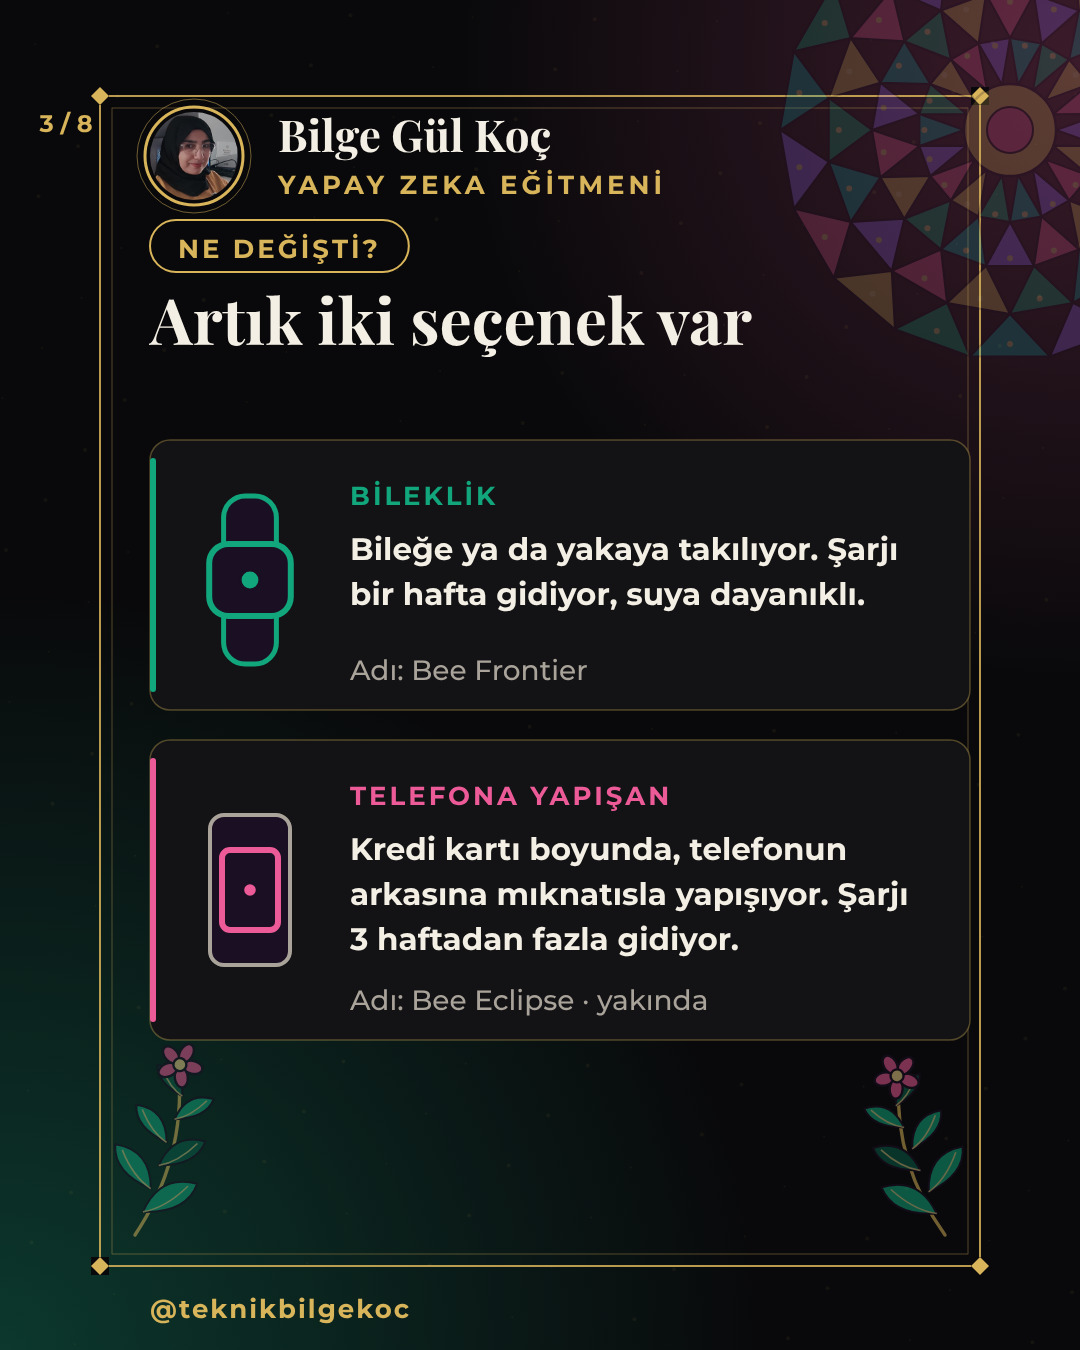
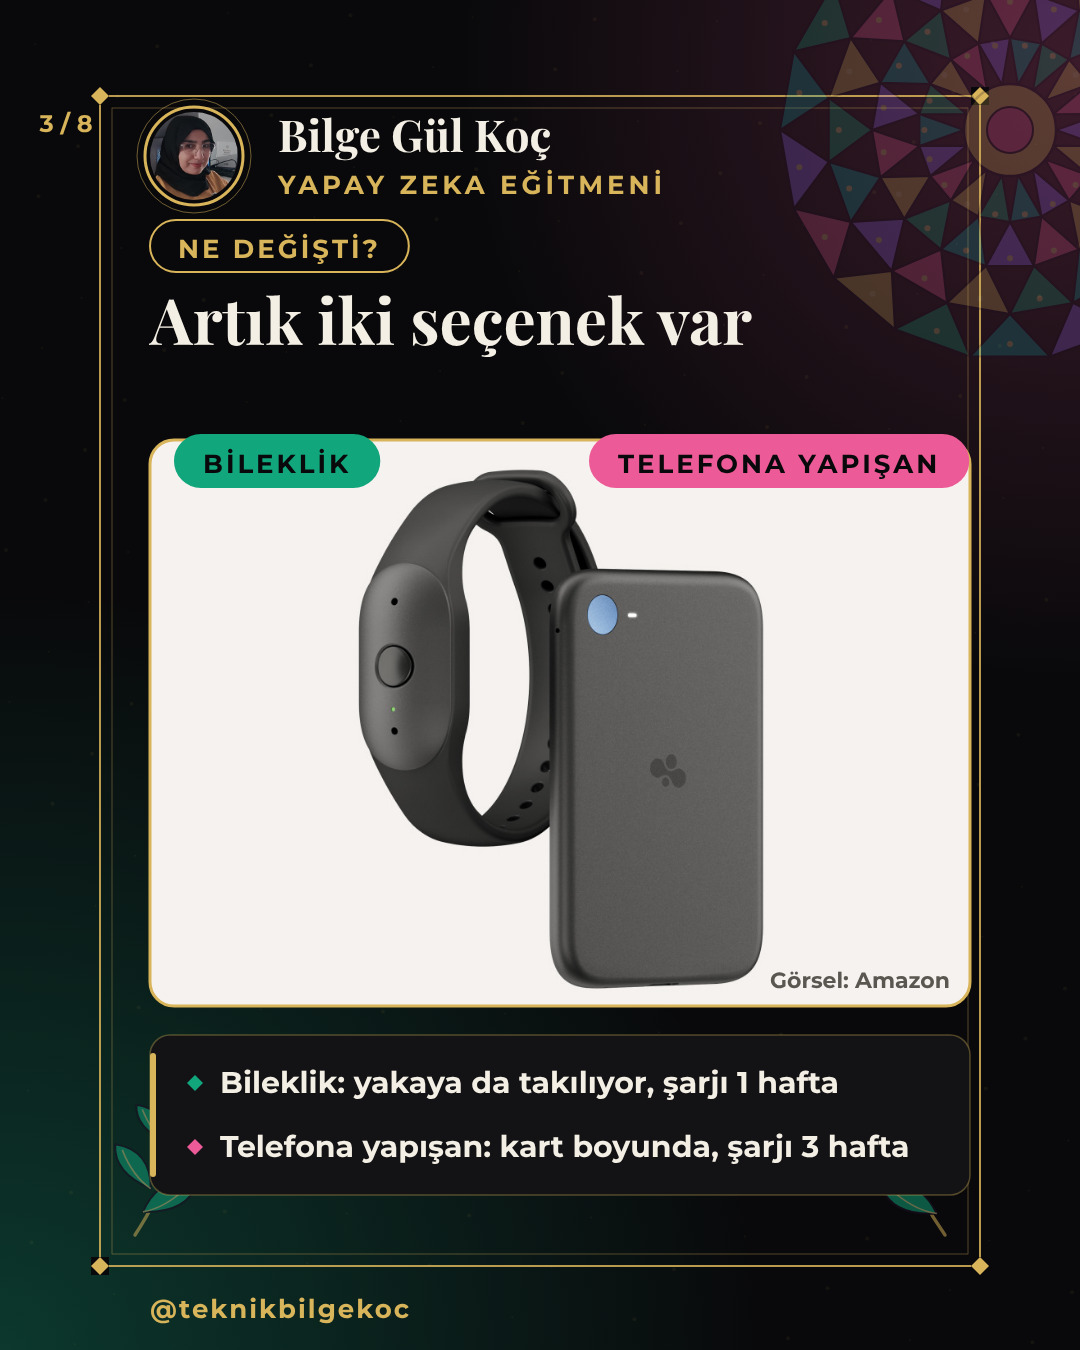
Gerçek ürün görseli kuralı ve urunGorsel(); Bee denemesinde 3. slayt resmi Amazon görseliyle
Claude-Session: https://claude.ai/code/session_01XC4Pp79YRtqX5bGTif3hZa

diff --git a/2026-10-16-deneme/s3.js b/2026-10-16-deneme/s3.js
@@ -17,16 +17,14 @@ const telKart = (x, y, col, s = 1) => { el('rect', { x: x - 40 * s, y: y - 75 * 
 async function build() {
   await fontsReady(); paper('pink'); footer('3 / 8'); suslemeler();
   baslik('NE DEĞİŞTİ?', 'Artık iki seçenek var', C.gold);
-  card(150, 380, 820, 270, C.emerald);
-  bileklik(250, 520, C.emerald, 1.2);
-  text('BİLEKLİK', 350, 445, { size: 26, weight: 700, color: C.emerald, ls: 3 });
-  para('Bileğe ya da yakaya takılıyor. Şarjı bir hafta gidiyor, suya dayanıklı.', 350, 500, { size: 31, weight: 700, color: C.ivory, width: 580 });
-  text('Adı: Bee Frontier', 350, 620, { size: 28, color: C.muted });
-  card(150, 680, 820, 300, C.pink);
-  telKart(250, 830, C.pink, 1);
-  text('TELEFONA YAPIŞAN', 350, 745, { size: 26, weight: 700, color: C.pink, ls: 3 });
-  para('Kredi kartı boyunda, telefonun arkasına mıknatısla yapışıyor. Şarjı 3 haftadan fazla gidiyor.', 350, 800, { size: 31, weight: 700, color: C.ivory, width: 580 });
-  text('Adı: Bee Eclipse · yakında', 350, 950, { size: 28, color: C.muted });
+  urunGorsel('urun.jpg', 150, 380, 820, 566, 'Görsel: Amazon', { kirp: 'xMidYMid meet' });
+  chip('BİLEKLİK', 175, 405, C.emerald, true);
+  chip('TELEFONA YAPIŞAN', 590, 405, C.pink, true);
+  card(150, 975, 820, 160, C.gold);
+  bullet(195, 1023, C.emerald);
+  text('Bileklik: yakaya da takılıyor, şarjı 1 hafta', 220, 1033, { size: 30, weight: 700, color: C.ivory });
+  bullet(195, 1087, C.pink);
+  text('Telefona yapışan: kart boyunda, şarjı 3 hafta', 220, 1097, { size: 30, weight: 700, color: C.ivory });
   kaydir();
   done();
 }

diff --git a/motor/lib-koyu.js b/motor/lib-koyu.js
@@ -99,6 +99,17 @@ function profil(x, y, d = 104) {
   serif('Bilge Gül Koç', tx, cy - 4, { size: 44, weight: 700, color: C.ivory });
   text('YAPAY ZEKA EĞİTMENİ', tx, cy + 38, { size: TS.label, weight: 700, color: C.gold, ls: 4 });
 }
+// Gerçek ürün görseli (Bilge, 16 Ekim 2026): yalnızca şirketin resmi basın sayfasından/kitinden; motor/ klasörüne kopyalanır.
+// Yuvarlatılmış çerçeve + ince altın kenar + sağ altta kaynak yazısı (ör. 'Görsel: Amazon'). Kapakta KULLANILMAZ.
+function urunGorsel(href, x, y, w, h, kaynak, o = {}) {
+  const id = 'ug' + sd(), rx = o.rx || 24;
+  const defs = svg.querySelector('defs') || el('defs');
+  const cp = el('clipPath', { id }, defs); el('rect', { x, y, width: w, height: h, rx }, cp);
+  el('rect', { x, y, width: w, height: h, rx, fill: o.zemin || '#F4F1EC' });
+  el('image', { href, x, y, width: w, height: h, 'clip-path': `url(#${id})`, preserveAspectRatio: o.kirp || 'xMidYMid slice' });
+  el('rect', { x, y, width: w, height: h, rx, fill: 'none', stroke: C.gold, 'stroke-width': 3 });
+  if (kaynak) text(kaynak, x + w - 20, y + h - 18, { size: 22, weight: 600, color: '#5A5650', anchor: 'end' }).dataset.free = 1;
+}
 // Kart: koyu zemin, ince altın kenar, solda vurgu rengi şeridi
 function card(x, y, w, h, accent = C.gold) {
   el('rect', { x, y, width: w, height: h, rx: 20, fill: C.card, stroke: C.gold, 'stroke-opacity': 0.35, 'stroke-width': 1.5 });

diff --git a/rutin-talimati.md b/rutin-talimati.md
@@ -25,6 +25,7 @@ GÖREV ADIMLARI
    - Playwright bulunamazsa `npm install playwright`; Chromium yoksa `npx playwright install chromium`.
    - Marka stili: siyah zemin, gold, zümrüt yeşili, vurgu pembe veya mor; başlıklar Playfair Display, gövde Montserrat (ayrıntı README'de). Krem defter teması KULLANMA. Animasyon YOK.
    - DİL VE YERELLEŞTİRME (Bilge, 15 Ekim 2026; tüm metinler için EN ÖNCELİKLİ kural): Takipçiler haberleri karışık ve anlaşılmaz buluyor. `motor/dil-rehberi.md` dosyasını oku ve uygula: İngilizce duyuruyu çevirme, Türkçe düşünerek yeniden anlat; yabancı şirket/ürünü ilk geçtiği yerde tanıt (ör. "Elon Musk'ın yapay zeka şirketi xAI"); "ajan" kelimesini HİÇBİR YERDE kullanma (Bilge açıkça istemiyor; yerine "yapay zeka asistanı"); yasaklı kelime listesindeki diğer jargonu (model, insansız, API, kredi tanımlamak vb.) da kullanma; çekinceyi bir kez söyle. SÜRÜM HABERİ (Bilge, 15 Ekim 2026): ürün daha önce de varsa "yeni çıktı" deme; "zaten vardı, yeni sürümde şu değişti" diye anlat ve eski/yeni farkını somut ver (rehber 4e). Haberi seçerken bunu birincil kaynakta kontrol et. Rakamı kapak başlığı yapma, durumu günlük sözle anlat ("10 aramadan 7'sini çözüyor" değil "telefonlara artık yapay zeka bakıyor"); çevirmen fiili yerine konuşma fiili kullan (rehber 4b). Görseller üretilmeden önce rehberin 8. bölümündeki kontrolü yap ve 9. bölümdeki BAĞIMSIZ OKUR KONTROLÜNÜ alt ajanla mutlaka çalıştır; işaretlenen satırları düzeltmeden görsel üretme.
+   - GERÇEK ÜRÜN GÖRSELİ (Bilge onayı, 16 Ekim 2026): Haber somut bir ürünle ilgiliyse, okur ürünü gözünde canlandırabilsin diye ara slaytlardan birine (tercihen "NE DEĞİŞTİ?") şirketin RESMİ basın/duyuru sayfasındaki ürün görseli konur, köşesinde "Görsel: <Şirket>" yazar. Haber sitesi, sosyal medya, insan yüzlü görsel ve kapakta kullanım YASAK. Ayrıntı `motor/README.md` "GERÇEK ÜRÜN GÖRSELİ".
    - KAPAK SADELİĞİ (Bilge, 15 Ekim 2026): Kapakta zemin ve ana figür aynı anda mozaik OLAMAZ. Ya figür mozaik, zemin sakin (düz koyu renk ya da hafif ışıma), ya zemin desenli, figür düz ve net konturlu. Kapak tek bakışta "ne görüyorum?" testini geçmeli; ayrıntı `motor/README.md` "KAPAK SADELİĞİ".
    - KAVRAM KAPAĞI VE KURGU (Bilge, 14 Ekim 2026; kapak görseli ve slayt sırası için aşağıdaki eski maddelerin yerine geçer): Kapak görseli artık `sahneTek()`/karikatür yüz DEĞİL; `motor/sanat-koyu.js` ile haberin fikrini anlatan, Fahrelnissa Zeid esinli özgün METAFOR görseli çizilir. `motor/README.md` "KAVRAM KAPAĞI" bölümündeki metafor protokolünü uygula, `kapak-gecmisi.md`'ye bak ve yayından sonra yeni satır ekle. Slayt sırası `motor/karusel-stratejisi.md` iskeletine göre kurulur (kapak, ikinci kapak, önce/sonra, nasıl çalışıyor, senin işinde, dikkat, bugün yap, "bunu kime göndermelisin?"); en çok 10 slayt, tümü 1080×1350. 2. slayt tek başına gösterildiğinde de anlaşılır olmalı.
    - YENİ FORMAT (Bilge onayı, 13 Ekim 2026; aşağıdaki eski 2 sayfa kurallarının yerine geçer): Karusel 6-8 SLAYT (sayı serbest). Kapak aynı kalır (resim üstte, başlık altta) ama başlık `motor/kanca-formatlari.md` içindeki formatlardan biriyle (tercihen iki format birleşimi) yazılır ve haberin ÖZNESİNİ (şirket/ürün) ile okuyana değişeni birlikte söyler; genel soru tek başına yetmez. Değer slaytların İÇİNDE verilir; slayt 2-N görsel ağırlıklı, her slayt tek fikir, en çok ~25 kelime, ikon/akış/önce-sonra/şema ile anlatım; yazı yoğun kart yığını YOK. Her slaytın üstünde profil rozeti (`profil(150, 112, 88)`: fotoğraf + "Bilge Gül Koç / YAPAY ZEKA EĞİTMENİ"), sağ üstte soluk `kaleydoskop`, alt köşelerde `dal()` çiçekli yaprak dalları (Fahrelnissa Zeid esinli, kopya değil). Son slayt tek eylem: kaydet/gönder. Örnek: `2026-10-13-deneme/s1.js … s6.js` (kopyala). Sayfa numarası '1 / N'. JPEG adları: 01.jpg … 0N.jpg; yayın bağlantıları sırayla.

diff --git a/motor/README.md b/motor/README.md
@@ -6,6 +6,7 @@ Sorun: her gün aynı karikatür yüz (`sahneTek` + `kadin()`) çizildi; çeşit
 - Zeid ilkeleri (eser kopyalanmaz): kaleydoskopik, koyu hatlarla bölünmüş mücevher yüzeyler; geç dönem portrelerindeki iri badem gözler ve uzun yüz (Bizans ikonası/Fayum duruşu); büyük jest + minik ayrıntı (ör. dev gözün gözbebeğinde küçük robot).
 - METAFOR PROTOKOLÜ (her gün): (1) Haberin özünü tek cümleyle yaz. (2) Bu öz için en az 5 görsel metafor yaz (ör. güvenlik → izleyen dev göz, anahtar deliğinden bakan robot, mozaik kalkan; hafıza → gözleri kapalı hatırlayan yüz, kum saati, zarf taşıyan kuş). (3) "Başlığı kapatınca görsel konuyu anlatıyor mu?" testini geçen, en şaşırtıcı ve en somut olanı seç. (4) `kapak-gecmisi.md` son 7 satırla kıyasla: ana figür, düzen, çerçeve, palet ÜÇÜNDEN fazlası aynı olamaz; ana figür (göz/yüz/el/nesne/hayvan) art arda iki gün aynı olamaz. (5) Gerekirse yeni nesneyi s1.js içinde SVG yoluyla çiz ve `mozaik()` ile doldur (yeni metafor serbest; araç listesi sınır değildir).
 - KAPAK SADELİĞİ (Bilge, 15 Ekim 2026; 15 Ekim Grok kapağı karışık bulundu: mozaik zemin + mozaik telefon): (1) Zemin ve figür aynı anda mozaik olamaz. Figür `mozaik()` ile dolduruluyorsa `sanatSahne` zemini sakin olur (düz koyu ya da tek ışıma; `kaleydoskop()` halkası çizme ya da opaklığı en çok 0.08). (2) Figür zeminden belirgin ayrılır: kalın koyu kontur + figürün arkasında koyu yuvarlak alan. (3) Figür üzerinde ikinci bir sembol (madalyon, robot yüzü) yok; tek figür, tek fikir. (4) Ses dalgası, ışın gibi süsler en çok 2 renk. (5) TEST: kapağı küçültüp telefon ekranında görüntüle (ör. 270 px genişlik); figür ne olduğu hemen seçilmiyorsa sadeleştir.
+- GERÇEK ÜRÜN GÖRSELİ (Bilge onayı, 16 Ekim 2026): Haber somut bir ürünle (cihaz, uygulama ekranı) ilgiliyse "NE DEĞİŞTİ?" ya da "NASIL ÇALIŞIYOR?" slaytına ürünün gerçek görseli konur; okur ürünü gözünde canlandırabilmeli. KURALLAR: (1) Yalnızca şirketin RESMİ duyuru/basın sayfasından ya da basın kitinden (ör. aboutamazon.com, anthropic.com/news, openai.com, blog.google). Haber sitesi (TechCrunch, Getty vb.), sosyal medya, Google Görseller YASAK. (2) İnsan yüzü içeren görsel kullanılmaz; yalnızca ürün ya da ekran. (3) Kapakta KULLANILMAZ; kapak her zaman özgün çizimdir. Karusel başına en çok 2 slaytta. (4) `lib-koyu.js` `urunGorsel(href, x, y, w, h, 'Görsel: <Şirket>', { kirp: 'xMidYMid meet' })` ile, açık zeminli çerçevede; kaynak yazısı ZORUNLU. Görseli `convert` ile ürüne yakın kırp, motor/ klasörüne `urun.jpg` olarak koy, günün klasörüne de kopyala. (5) Görselin indirildiği adresi rapor.md'ye yaz. (6) Uygun resmi görsel yoksa ürünü resmi fotoğrafa bakarak kendi stilimizle çiz; asla başka kaynaktan alma. Örnek: `../2026-10-16-deneme/s3.js`.
 - Kompozisyon: tek ana figür, çerçevenin üst %60'ını doldurur (y≈150–820), altta perde + etiket + 3 satır başlık (mevcut kural). Rozetin arkasına `rozetZemin()` koy. İnsan figürü kullanılırsa kadın öncelikli ve çeşitli (başörtülü/saçlı/yaşlı/genç, farklı ten tonu `ten`), ama her gün insan zorunlu DEĞİL.
 - Örnekler: `../2026-10-14-kapak-deneme/` (k1 göz: güvenlik, k2 yüz: hafıza, k3 el + telefon: sesli asistan). Kopyala, değiştirme.
 - Karusel kurgusu: `karusel-stratejisi.md` (8 slaytlık haber iskeleti, Instagram kuralları ve kaynaklar).

diff --git a/motor/karusel-stratejisi.md b/motor/karusel-stratejisi.md
@@ -19,6 +19,7 @@ Kural: aşağıda "RESMİ" diye işaretli olanlar Instagram/Meta kaynaklıdır; 
 
 1. **KAPAK, durdurucu.** Konuyla güçlü bağlı, özgün kavram görseli (bkz. README "KAVRAM KAPAĞI") + özne (şirket/ürün) + okuyana değişen şey. 2 saniyede "bu benimle ilgili" dedirtmeli.
 2. **İKİNCİ KAPAK, haberin tek cümlesi.** Ne oldu, kim yaptı, ne zaman. Ürün zaten varsa: ne zamandır var + yeni sürümde ne değişti (3. slayt ÖNCE/SONRA eski sürüm–yeni sürüm olur). Büyük yazı + küçük görsel. Instagram bu slaytı tek başına da gösterebilir: kapak görülmemiş gibi anlaşılır olmalı.
+2b. **ÜRÜNÜN KENDİSİ (somut ürün haberlerinde).** Resmi basın görseliyle ürünü göster (bkz. README "GERÇEK ÜRÜN GÖRSELİ"); okur "bu neye benziyor?" sorusuna cevap bulur. 3. slaytla birleştirilebilir.
 3. **ÖNCE / SONRA.** Dün nasıldı, bugün ne değişti (iki sütun, ikonla).
 4. **NASIL ÇALIŞIYOR.** 3 adımlık akış (ok, ikon, en çok 3 kısa etiket).
 5. **SENİN İŞİNDE.** 2–3 meslekten tek satırlık kullanım (klinik, eğitim, danışmanlık, e-ticaret). Varsayımsal ise "Örneğin (varsayımsal)" yaz.

diff --git a/2026-10-16-deneme/rapor.md b/2026-10-16-deneme/rapor.md
@@ -1,0 +1,6 @@
+# 2026-10-16 deneme raporu (yayınlanmadı)
+- Haber: Amazon Bee Frontier ve Bee Eclipse (15 Ekim 2026). Birincil kaynak: https://www.aboutamazon.com/news/devices/amazon-personal-ai-bee-frontier-bee-eclipse ; ikincil: TechCrunch 15 Ekim.
+- Çerçeve: ürün zaten vardı (Bee Pioneer bileklik, Amazon 2025'te şirketi aldı); yeni olan iki cihaz.
+- Ürün görseli (3. slayt): https://assets.aboutamazon.com/cc/48/44c86d444c879facc9fa2614ccbb/bee-frontier-bee-eclipse-inline-amazonnews-ck102426.jpg (resmi Amazon duyuru sayfası; insan yüzü yok; "Görsel: Amazon" yazılı).
+- Okur kontrolü: 15 sorun bulundu, düzeltildi.
+- Doğrulanamayan: Türkiye'de satış, Türkçe desteği.
